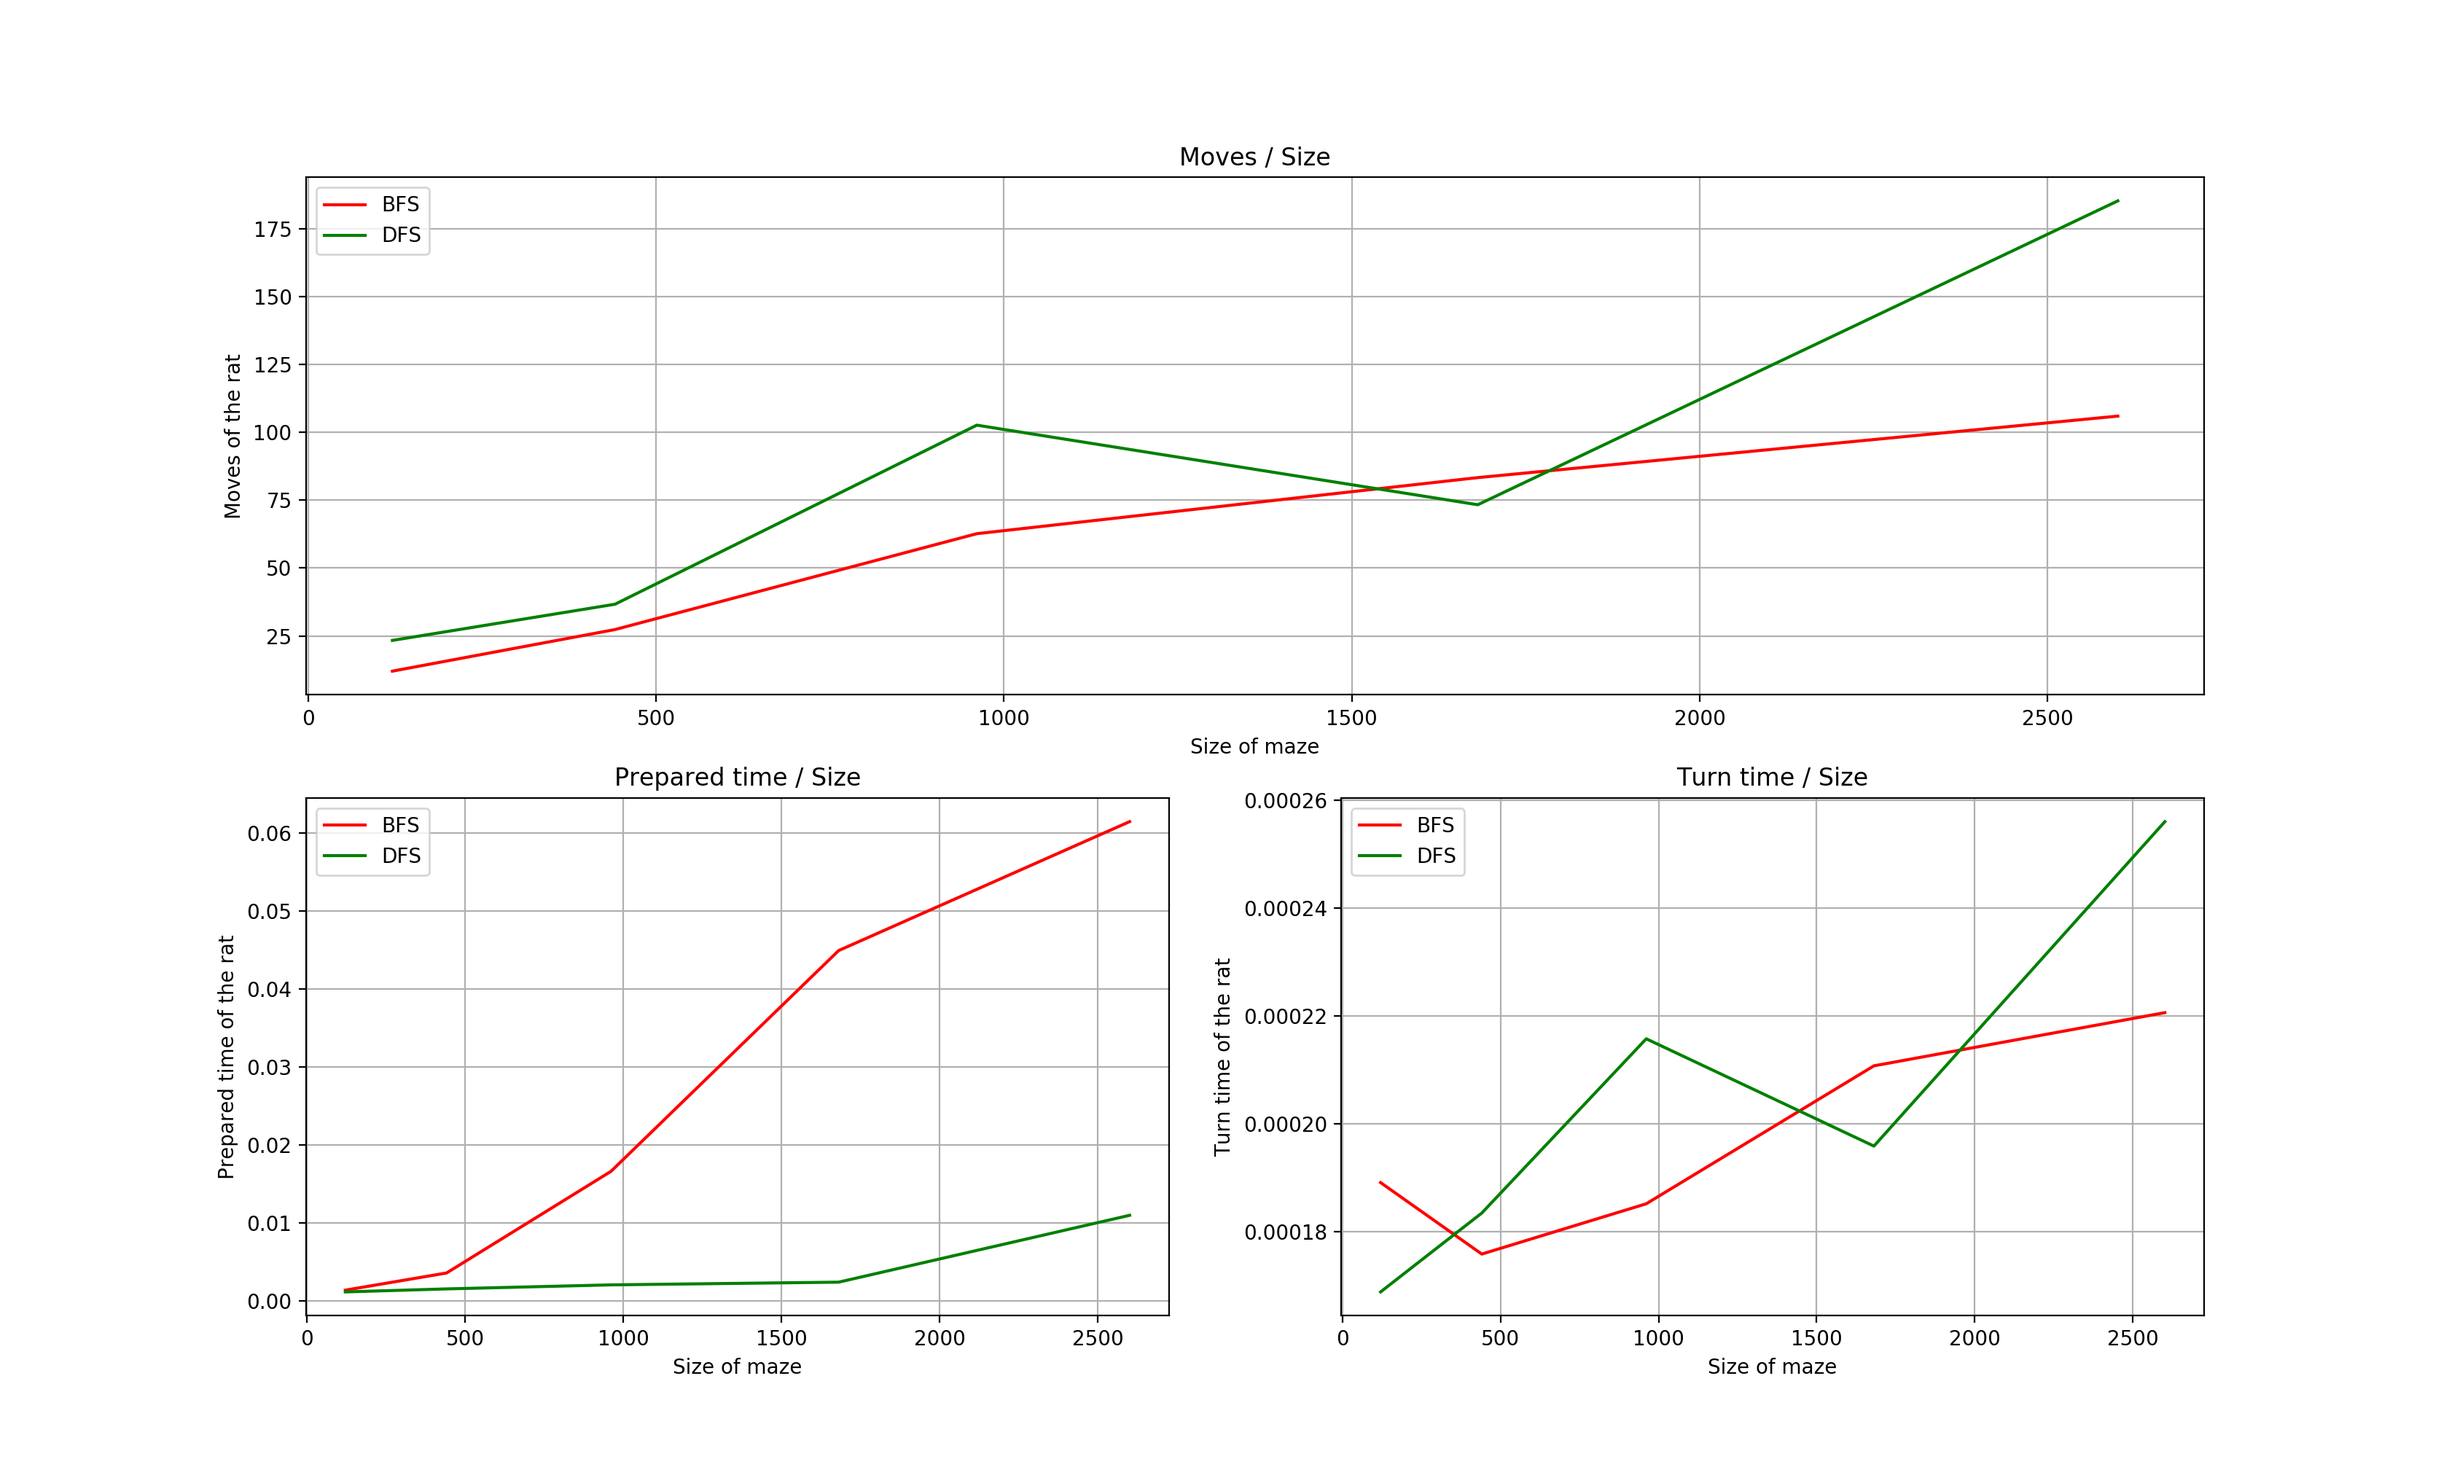
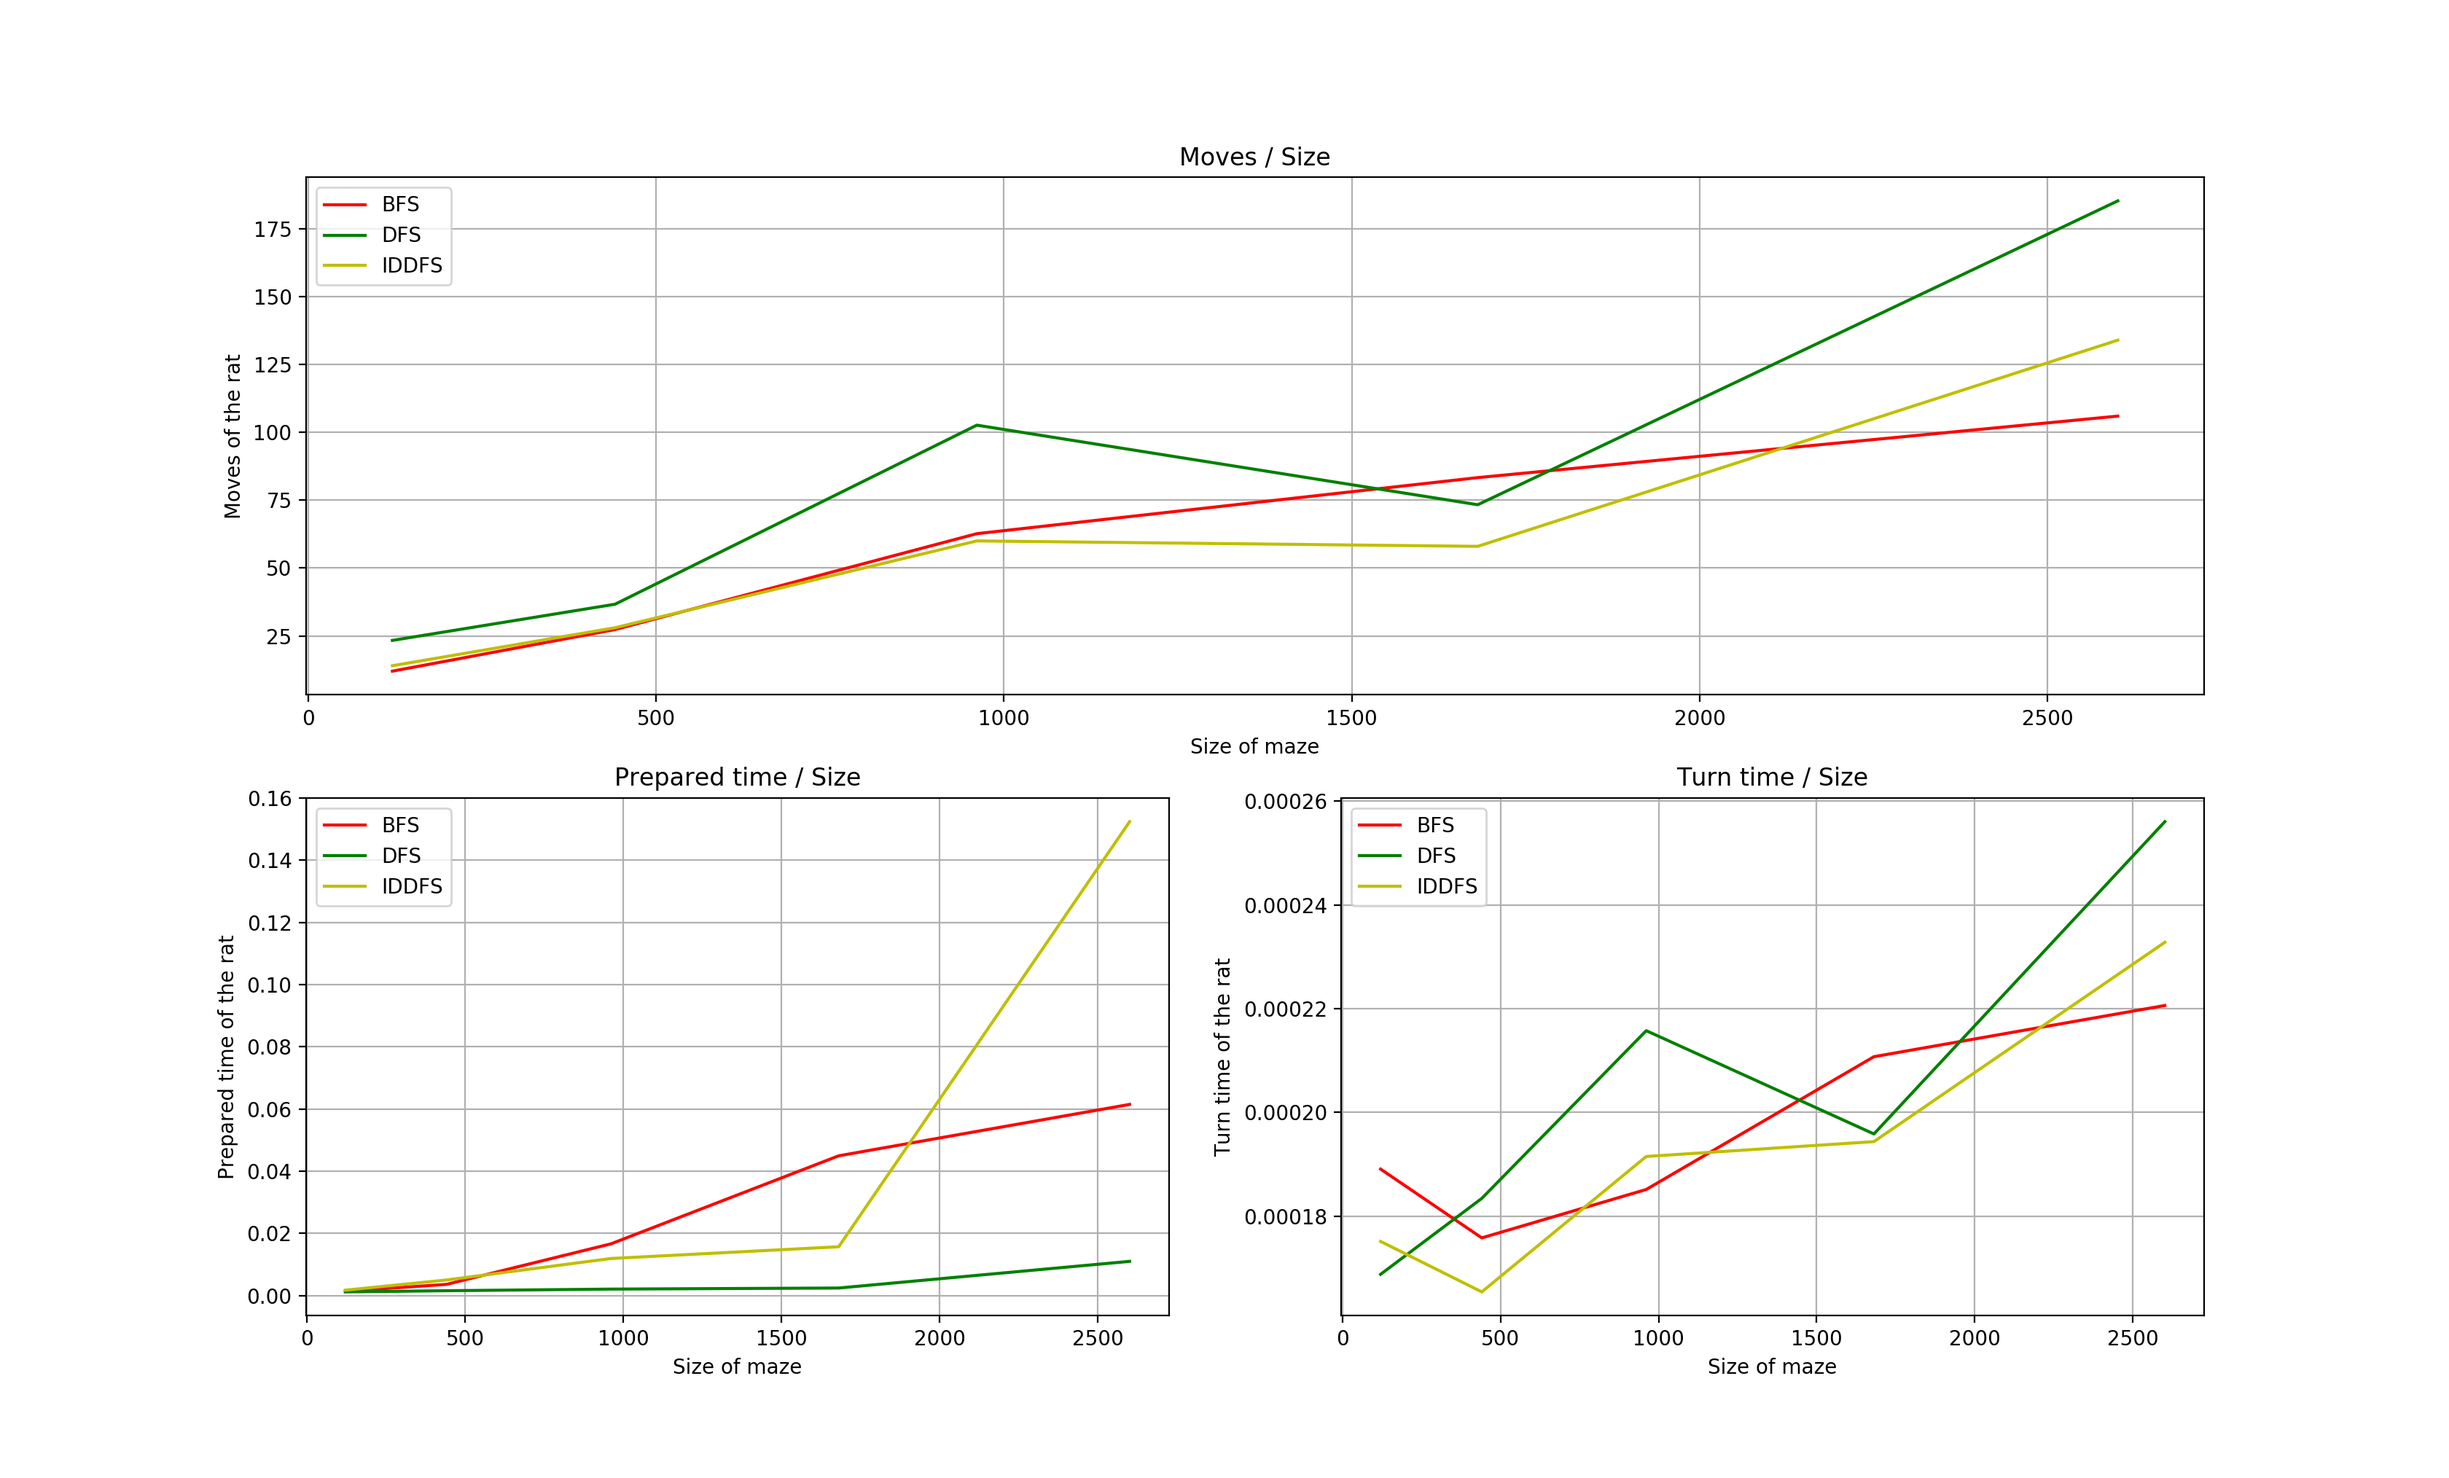
Update the analyse of the IDDFS

diff --git a/Lab2/DataAnalyse.py b/Lab2/DataAnalyse.py
@@ -50,12 +50,16 @@ def main():
     sheet1 = workbook1.sheet_by_name('Sheet1')
     workbook2 = xlrd.open_workbook('/Users/xisung/Desktop/StudyHard/AlgorithmandDiscretMath/AI_XiS/Lab2/DFS_Statistics.xlsx')
     sheet2 = workbook2.sheet_by_name('Sheet1')
+    workbook3 = xlrd.open_workbook('/Users/xisung/Desktop/StudyHard/AlgorithmandDiscretMath/AI_XiS/Lab2/IDDFS_Statistics.xlsx')
+    sheet3 = workbook3.sheet_by_name('Sheet1')
 
     table1 = fillTheTable(sheet1)
     table2 = fillTheTable(sheet2)
+    table3 = fillTheTable(sheet3)
 
     table1 = calAverage(table1)
     table2 = calAverage(table2)
+    table3 = calAverage(table3)
 
 # Plot with multiple subplotss
     plt.figure()
@@ -64,6 +68,7 @@ def main():
     plt.subplot(2, 1, 1)
     plt.plot([i * i for i in table1['Width of maze']], table1['Moves'], color="r", label="BFS")
     plt.plot([i * i for i in table1['Width of maze']], table2['Moves'], color="g", label="DFS")
+    plt.plot([i * i for i in table1['Width of maze']], table3['Moves'], color="y", label="IDDFS")
     plt.legend(loc='upper left')
     plt.title("Moves / Size")
     plt.xlabel("Size of maze")
@@ -73,6 +78,7 @@ def main():
     plt.subplot(2, 2, 3)
     plt.plot([i * i for i in table1['Width of maze']], table1['Prepared time'], color='r', label="BFS")
     plt.plot([i * i for i in table1['Width of maze']], table2['Prepared time'], color='g', label="DFS")
+    plt.plot([i * i for i in table1['Width of maze']], table3['Prepared time'], color='y', label="IDDFS")
     plt.legend(loc='upper left')
     plt.title("Prepared time / Size")
     plt.xlabel("Size of maze")
@@ -83,6 +89,7 @@ def main():
     plt.subplot(2, 2, 4)
     plt.plot([i * i for i in table1['Width of maze']], table1['Turn time'], color='r', label="BFS")
     plt.plot([i * i for i in table1['Width of maze']], table2['Turn time'], color='g', label="DFS")
+    plt.plot([i * i for i in table1['Width of maze']], table3['Turn time'], color='Y', label="IDDFS")
     plt.legend(loc='upper left')
     plt.title("Turn time / Size")
     plt.xlabel("Size of maze")
